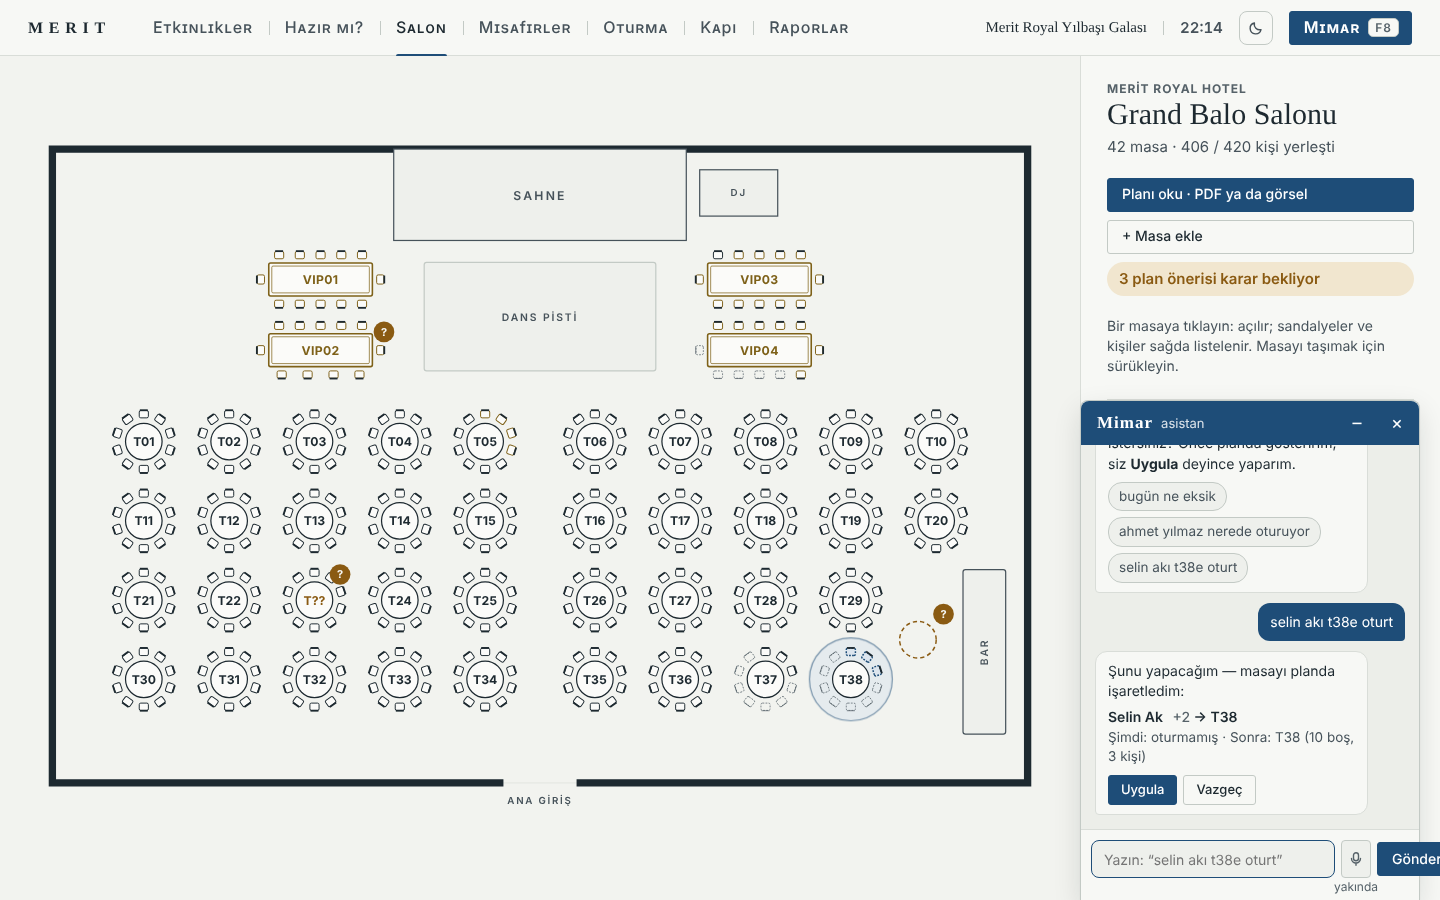
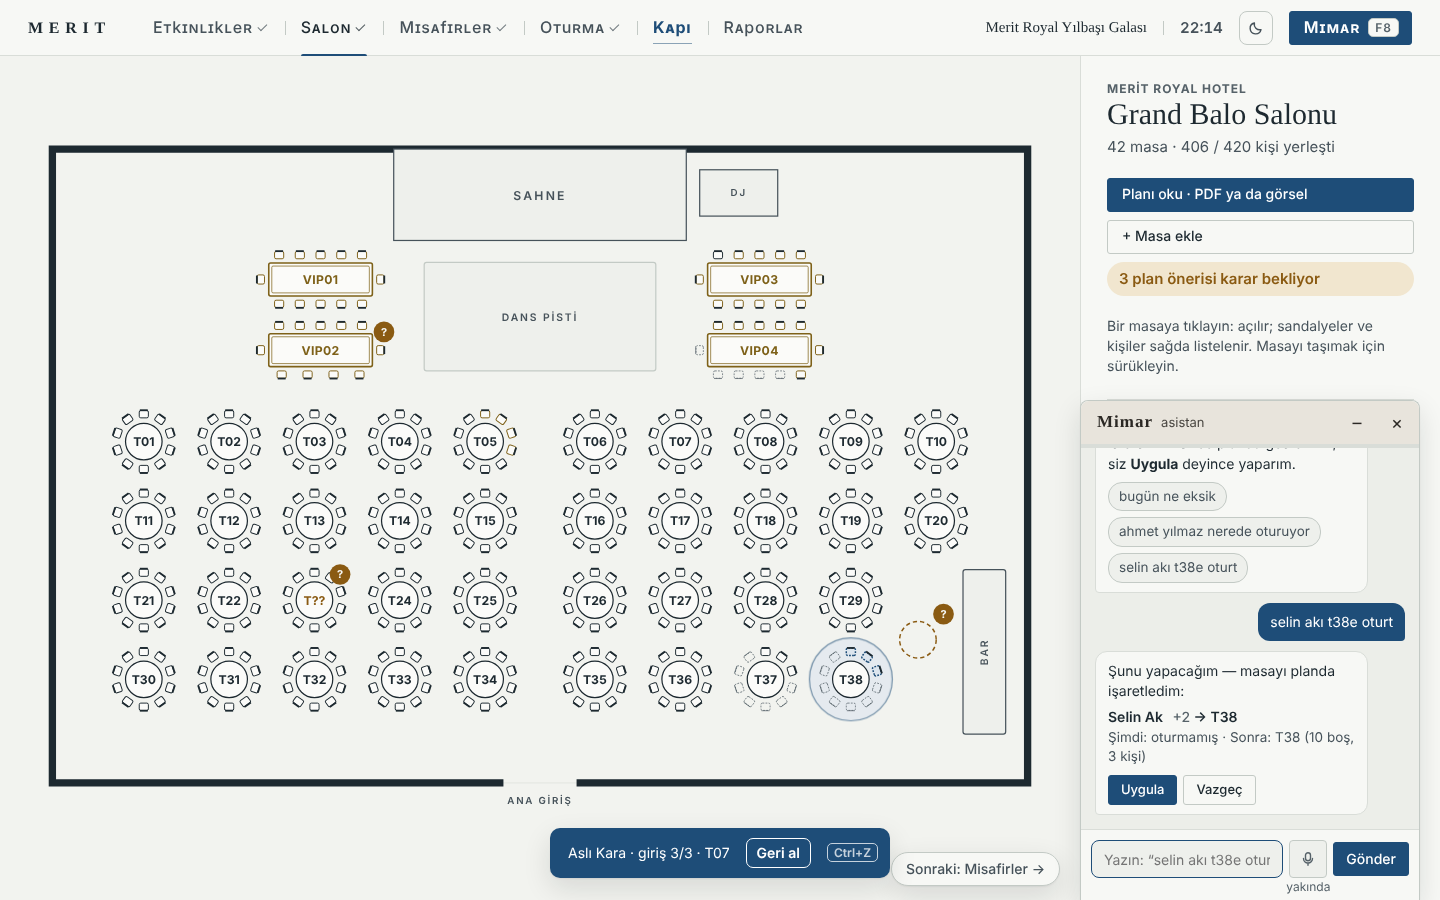
Design prototypes A/B: warm-grey Mimar title bar + thinking strip
Claude-Session: https://claude.ai/code/session_01Ak6diUNXKQisc6dYh4daPW

diff --git a/benchmarks/ux/redesign/7-atlas-sade/index.html b/benchmarks/ux/redesign/7-atlas-sade/index.html
@@ -589,6 +589,14 @@ body.mopen #nextBtn{right:380px}
 .ge .opts button:hover{border-color:var(--acc)}
 .hz-settle{margin-top:20px;padding:18px;border:1px solid var(--ok);border-radius:8px;background:var(--ok-soft)}
 .hz-settle b{display:block;font-size:16px;margin-bottom:4px}
+/* Mimar: warm off-grey title bar, thin flowing strip while it works */
+:root{--mhb:#E8E4DC;--mhi:#2B2824}:root[data-theme="dark"]{--mhb:#2B2925;--mhi:#EEE7D9}
+.mh{background:var(--mhb);color:var(--mhi);border-bottom:1px solid var(--line)}.mh button:hover{background:rgba(127,120,110,.16)}
+.mstrip{height:3px;flex:none;background:var(--line)}#mimar.min .mstrip{display:none}
+#mimar.working .mstrip{background:linear-gradient(90deg,#2f6f66,#6fae9f,#d9a441,#c2703d,#d9a441,#6fae9f,#2f6f66);background-size:300% 100%;animation:mflow 2.6s ease-in-out infinite alternate}
+@keyframes mflow{0%{background-position:0% 50%}100%{background-position:100% 50%}}
+@media (prefers-reduced-motion:reduce){#mimar.working .mstrip{animation:none}}
+.mf .fld{min-width:0;width:0}#mSend{padding:0 12px;flex:none}.mf{min-width:0}
 #s-salon{--htR:384px}
 </style>
 </head>
@@ -635,6 +643,7 @@ body.mopen #nextBtn{right:380px}
 <svg id="lead" aria-hidden="true"></svg>
 <div id="mimar" role="dialog" aria-label="Mimar">
   <div class="mh" id="mHead"><b>Mimar</b><small>asistan</small><button id="mMin" aria-label="Küçült">–</button><button id="mX" aria-label="Kapat">×</button></div>
+  <div class="mstrip" aria-hidden="true"></div>
   <div class="mb" id="mb" aria-live="polite"></div>
   <div class="mf"><input class="fld" id="mq" placeholder="Yazın: “selin akı t38e oturt”" autocomplete="off"><button class="mic" disabled title="Sesle komut · yakında" aria-label="Sesle komut (yakında)"><svg width="16" height="16" viewBox="0 0 16 16" fill="none" stroke="currentColor" stroke-width="1.4" stroke-linecap="round"><rect x="5.5" y="1.8" width="5" height="8" rx="2.5"/><path d="M3.5 7.5a4.5 4.5 0 0 0 9 0M8 12v2.2"/></svg><span>yakında</span></button><button class="btn pri" id="mSend">Gönder</button></div>
 </div>
@@ -1112,7 +1121,8 @@ $('#rpBar').onclick=e=>{const b=e.target.closest('[data-go]');if(b)toast(b.datas
 const M={open:false,min:false,msgs:[]};
 function renderM(){const b=$('#mb');b.innerHTML=M.msgs.map((m,i)=>`<div class="bub ${m.who}">${m.html}${(m.items||[]).map((it,j)=>`<div class="mit"><div class="t">${it.t}</div>${it.s?`<div class="s">${it.s}</div>`:''}${it.b&&!m.done?`<div class="acts"><button class="btn sm pri" data-mi="${i}:${j}">${it.b}</button>${m.seat?`<button class="btn sm" data-mx="${i}">Vazgeç</button>`:''}</div>`:''}</div>`).join('')}${m.chips?`<div class="chips">${m.chips.map(c=>`<button data-chip="${esc(c)}">${esc(c)}</button>`).join('')}</div>`:''}${m.undo&&!m.undone?`<div class="acts"><button class="btn sm" data-mu="${i}">Geri al</button></div>`:''}</div>`).join('');b.scrollTop=b.scrollHeight}
 function mimarOpen(v){M.open=v??!M.open;$('#mimar').classList.toggle('on',M.open);$('#mimarBtn').classList.toggle('on',M.open);$('#mimarBtn').setAttribute('aria-expanded',M.open);if(M.open){M.min=false;$('#mimar').classList.remove('min');if(!M.msgs.length)M.msgs.push({who:'ai',html:'Merhaba, ben <b>Mimar</b>. Ne yapmamı istersiniz? Önce planda gösteririm, siz <b>Uygula</b> deyince yaparım.',chips:['bugün ne eksik','ahmet yılmaz nerede oturuyor','selin akı t38e oturt']});renderM();setTimeout(()=>$('#mq').focus(),0)}}
-function mimarAsk(text){if(!text.trim())return;M.msgs.push({who:'me',html:esc(text)});const f=fold(text),items=parse(text).slice(0,4);
+function mimarAsk(text){if(!text.trim())return;M.msgs.push({who:'me',html:esc(text)});renderM();const mm=$('#mimar');mm.classList.add('working');clearTimeout(M.t);M.t=setTimeout(()=>{mm.classList.remove('working');mimarAnswer(text)},650)}
+function mimarAnswer(text){const f=fold(text),items=parse(text).slice(0,4);
  if(items.length===1&&items[0].k==='Anladığım'){const tid=tableIn(f),g=guestsIn(f)[0];S.preview={t:tid,g:g.id};if(!ROOMBOX[S.scr]){go('salon')}else renderRoom();
   M.msgs.push({who:'ai',html:'Şunu yapacağım — masayı planda işaretledim:',items:[{...items[0],b:'Uygula'}],seat:{g:g.id,t:tid}})}
  else M.msgs.push({who:'ai',html:items.length>1?'Şunları buldum:':'',items});renderM()}

diff --git a/benchmarks/ux/redesign/8-tema-b/index.html b/benchmarks/ux/redesign/8-tema-b/index.html
@@ -460,6 +460,14 @@ body.mopen #nextBtn{right:380px}
 .ge .opts button:hover{border-color:var(--acc)}
 .hz-settle{margin-top:20px;padding:18px;border:1px solid var(--ok);border-radius:8px;background:var(--ok-soft)}
 .hz-settle b{display:block;font-size:16px;margin-bottom:4px}
+/* Mimar: warm off-grey title bar, thin flowing strip while it works */
+:root{--mhb:#E8E4DC;--mhi:#2B2824}:root[data-theme="dark"]{--mhb:#2B2925;--mhi:#EEE7D9}
+.mh{background:var(--mhb);color:var(--mhi);border-bottom:1px solid var(--line)}.mh button:hover{background:rgba(127,120,110,.16)}
+.mstrip{height:3px;flex:none;background:var(--line)}#mimar.min .mstrip{display:none}
+#mimar.working .mstrip{background:linear-gradient(90deg,#2f6f66,#6fae9f,#d9a441,#c2703d,#d9a441,#6fae9f,#2f6f66);background-size:300% 100%;animation:mflow 2.6s ease-in-out infinite alternate}
+@keyframes mflow{0%{background-position:0% 50%}100%{background-position:100% 50%}}
+@media (prefers-reduced-motion:reduce){#mimar.working .mstrip{animation:none}}
+.mf .fld{min-width:0;width:0}#mSend{padding:0 12px;flex:none}.mf{min-width:0}
 
 </style>
 </head>
@@ -513,6 +521,7 @@ body.mopen #nextBtn{right:380px}
 <svg id="lead" aria-hidden="true"></svg>
 <div id="mimar" role="dialog" aria-label="Mimar">
   <div class="mh" id="mHead"><b>Mimar</b><small>asistan</small><button id="mMin" aria-label="Küçült">–</button><button id="mX" aria-label="Kapat">×</button></div>
+  <div class="mstrip" aria-hidden="true"></div>
   <div class="mb" id="mb" aria-live="polite"></div>
   <div class="mf"><input class="fld" id="mq" placeholder="Yazın: “selin akı t38e oturt”" autocomplete="off"><button class="mic" disabled title="Sesle komut · yakında" aria-label="Sesle komut (yakında)"><svg width="16" height="16" viewBox="0 0 16 16" fill="none" stroke="currentColor" stroke-width="1.4" stroke-linecap="round"><rect x="5.5" y="1.8" width="5" height="8" rx="2.5"/><path d="M3.5 7.5a4.5 4.5 0 0 0 9 0M8 12v2.2"/></svg><span>yakında</span></button><button class="btn pri" id="mSend">Gönder</button></div>
 </div>
@@ -960,7 +969,8 @@ $('#hzRoom').addEventListener('click',e=>{const sg=e.target.closest('[data-sug]'
 const M={open:false,min:false,msgs:[]};
 function renderM(){const b=$('#mb');b.innerHTML=M.msgs.map((m,i)=>`<div class="bub ${m.who}">${m.html}${(m.items||[]).map((it,j)=>`<div class="mit"><div class="t">${it.t}</div>${it.s?`<div class="s">${it.s}</div>`:''}${it.b&&!m.done?`<div class="acts"><button class="btn sm pri" data-mi="${i}:${j}">${it.b}</button>${m.seat?`<button class="btn sm" data-mx="${i}">Vazgeç</button>`:''}</div>`:''}</div>`).join('')}${m.chips?`<div class="chips">${m.chips.map(c=>`<button data-chip="${esc(c)}">${esc(c)}</button>`).join('')}</div>`:''}${m.undo&&!m.undone?`<div class="acts"><button class="btn sm" data-mu="${i}">Geri al</button></div>`:''}</div>`).join('');b.scrollTop=b.scrollHeight}
 function mimarOpen(v){M.open=v??!M.open;$('#mimar').classList.toggle('on',M.open);$('#mimarBtn').classList.toggle('on',M.open);$('#mimarBtn').setAttribute('aria-expanded',M.open);if(M.open){M.min=false;$('#mimar').classList.remove('min');if(!M.msgs.length)M.msgs.push({who:'ai',html:'Merhaba, ben <b>Mimar</b>. Ne yapmamı istersiniz? Önce planda gösteririm, siz <b>Uygula</b> deyince yaparım.',chips:['bugün ne eksik','ahmet yılmaz nerede oturuyor','selin akı t38e oturt']});renderM();setTimeout(()=>$('#mq').focus(),0)}}
-function mimarAsk(text){if(!text.trim())return;M.msgs.push({who:'me',html:esc(text)});const f=fold(text),items=parse(text).slice(0,4);
+function mimarAsk(text){if(!text.trim())return;M.msgs.push({who:'me',html:esc(text)});renderM();const mm=$('#mimar');mm.classList.add('working');clearTimeout(M.t);M.t=setTimeout(()=>{mm.classList.remove('working');mimarAnswer(text)},650)}
+function mimarAnswer(text){const f=fold(text),items=parse(text).slice(0,4);
  if(items.length===1&&items[0].k==='Anladığım'){const tid=tableIn(f),g=guestsIn(f)[0];S.preview={t:tid,g:g.id};if(!ROOMBOX[S.scr]){go('salon')}else renderRoom();
   M.msgs.push({who:'ai',html:'Şunu yapacağım — masayı planda işaretledim:',items:[{...items[0],b:'Uygula'}],seat:{g:g.id,t:tid}})}
  else M.msgs.push({who:'ai',html:items.length>1?'Şunları buldum:':'',items});renderM()}
